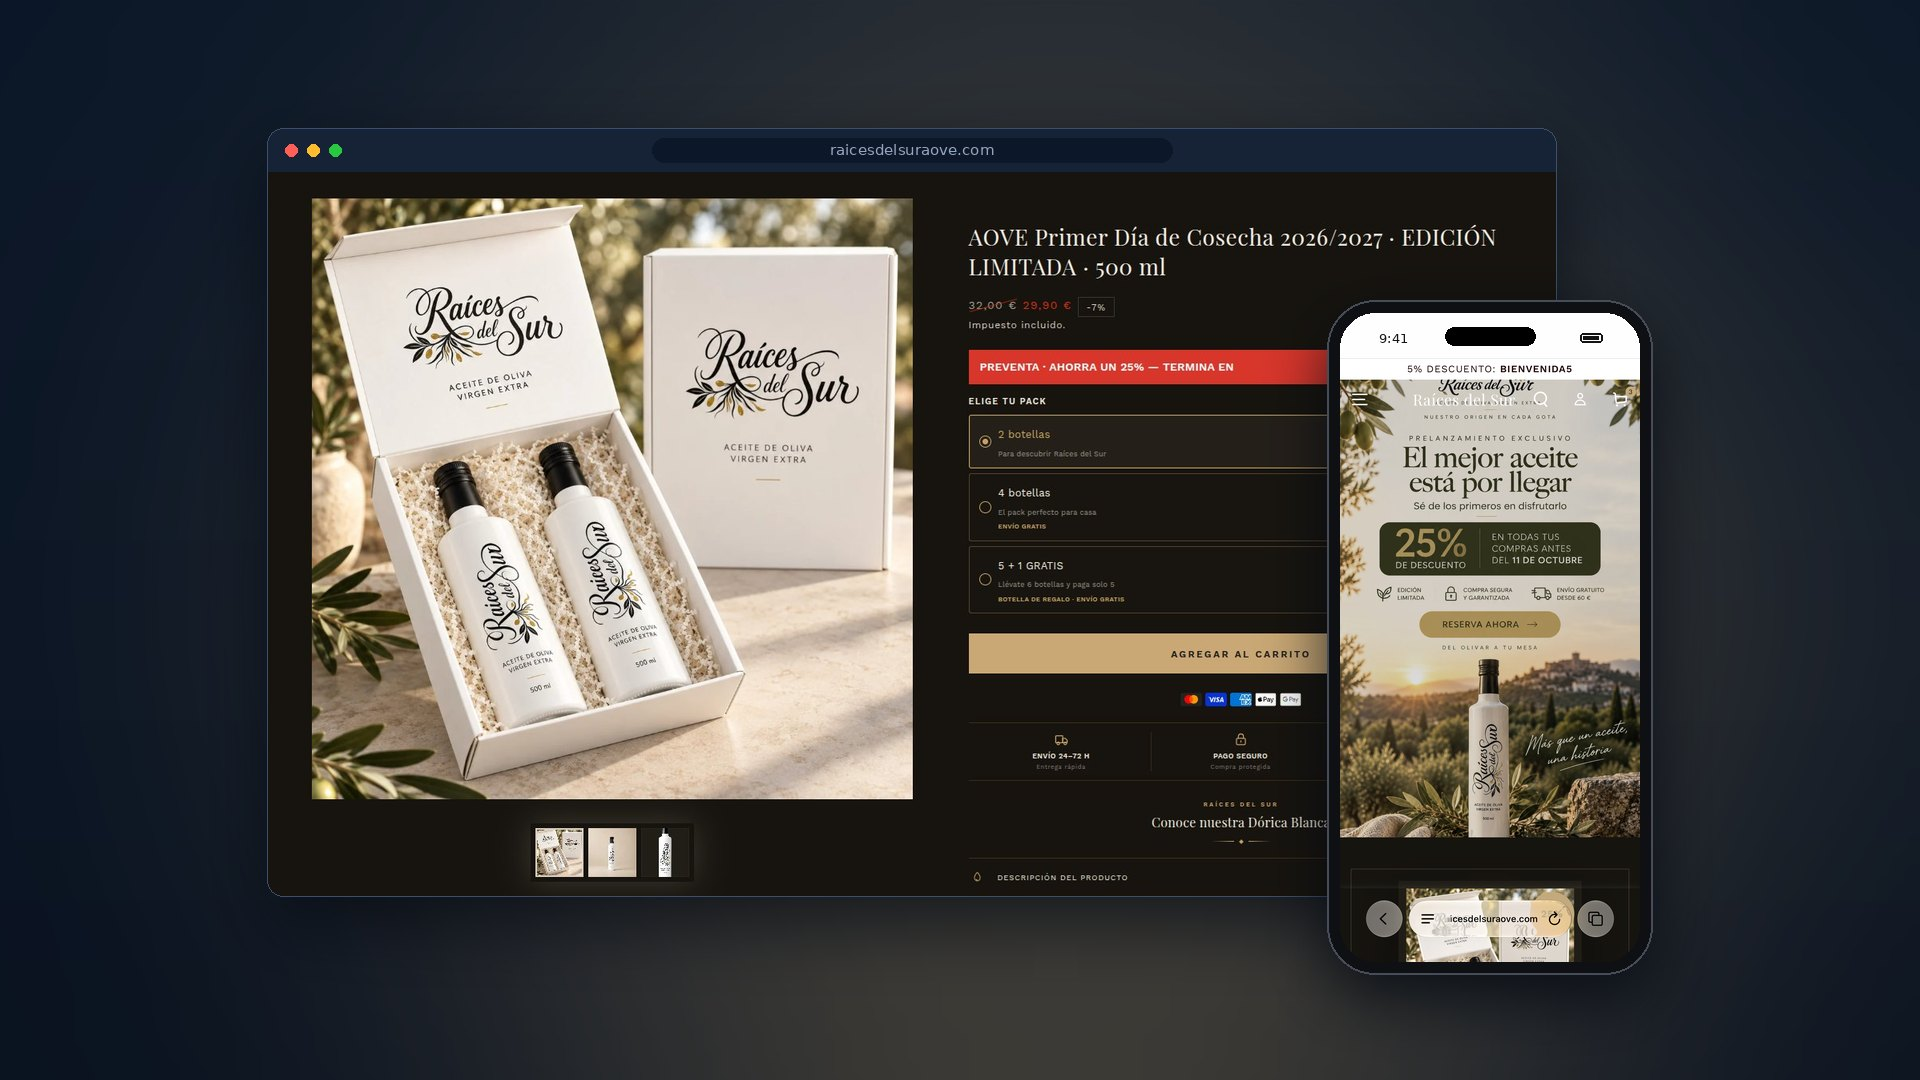
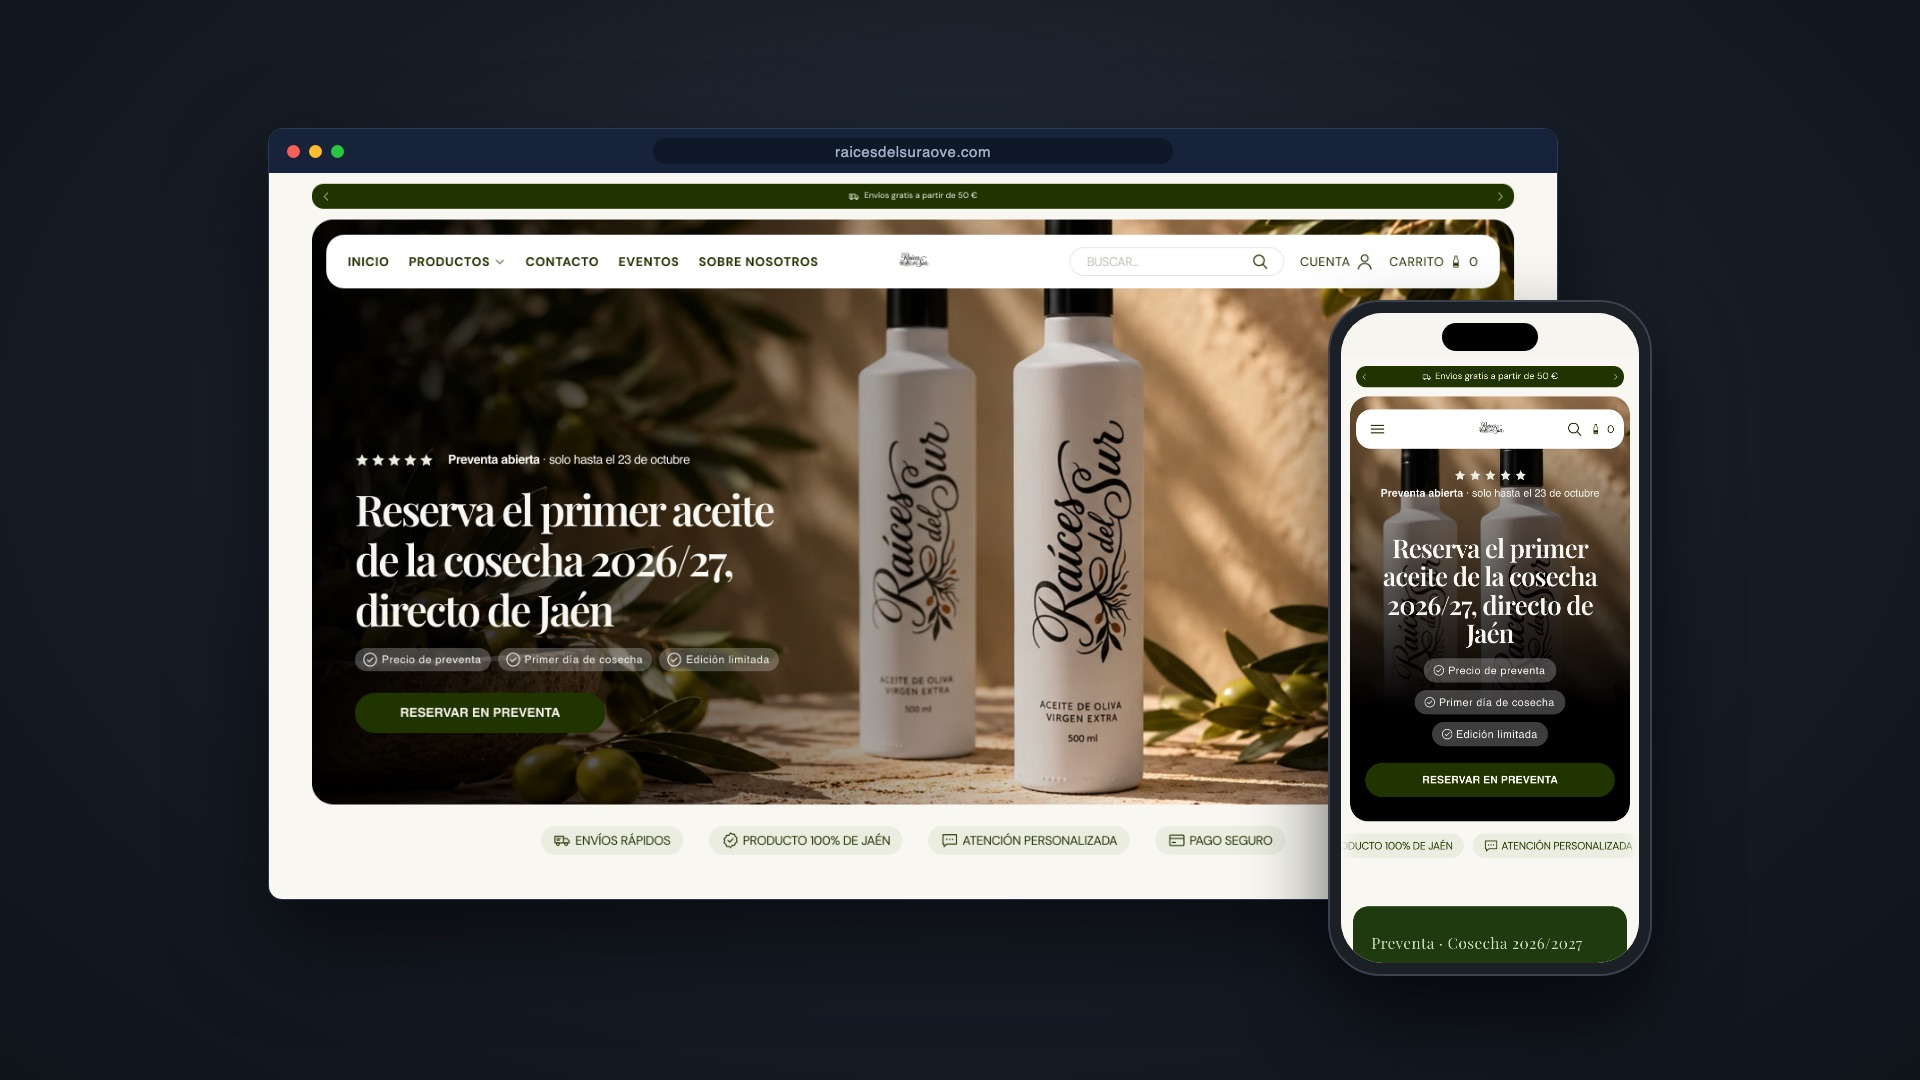
Raíces del Sur: fotos y textos de la web nueva
La tienda se ha rediseñado entera: nueva portada, tres capturas en la
galería (inicio, ficha del aceite y Crea tu pack), textos actualizados
y acento verde oliva. Es una empresa de Écija.

diff --git a/src/data/projects.ts b/src/data/projects.ts
@@ -144,7 +144,7 @@ export const projects: Project[] = [
   {
     slug: "raicesdelsur",
     title: "Raíces del Sur",
-    tagline: "Tienda de aceite de oliva virgen extra que vende por packs y arranca en preventa",
+    tagline: "Tienda de aceite de oliva con preventa, packs y una despensa que montas tú",
     category: "Shopify · Ecommerce",
     year: 2026,
     date: "Octubre 2026",
@@ -155,26 +155,30 @@ export const projects: Project[] = [
     featured: true,
     liveUrl: "https://raicesdelsuraove.com/",
     cover: "/images/project-raices.jpg",
-    gallery: ["/images/screen-raices-inicio.jpg"],
+    gallery: [
+      "/images/screen-raices-inicio.jpg",
+      "/images/screen-raices-producto.jpg",
+      "/images/screen-raices-pack.jpg",
+    ],
     stack: ["Shopify", "Liquid", "JavaScript", "CSS"],
-    goal: "Vender un aceite de edición limitada antes de que salga, con una tienda a la altura del producto.",
+    goal: "Vender un aceite de edición limitada antes de que salga, y que la tienda siga vendiendo cuando acabe la preventa.",
     context:
-      "Una persona cercana lanzaba su propia marca de aceite de oliva virgen extra: una edición limitada del primer día de cosecha, en botella de 500 ml y caja de regalo. No había tienda, y la idea era abrir en preventa y vender por packs, no botella a botella.",
+      "Una empresa de Écija lanzaba su propia marca de aceite de oliva virgen extra, con aceituna de sus olivos de Jaén: una edición limitada del primer día de cosecha, en botella de 500 ml. La primera versión de la tienda solo vendía ese aceite. Después llegaron las aceitunas aliñadas y la mermelada de aceite, y la web se quedaba corta.",
     summary: [
-      "Monté la tienda en Shopify y adapté el tema a la marca: fondo oscuro, detalles dorados y una tipografía clásica, para que un aceite de edición limitada se vea como lo que es y no como uno más del supermercado.",
-      "La clave está en cómo se vende. En la ficha del aceite eliges directamente el pack de 2, 4 o 6 botellas y ves al momento cuánto te sale cada una y cuánto te ahorras. El de seis lleva una de regalo, y ese descuento entra solo al pagar, sin códigos.",
+      "Rehíce la tienda entera. Pasó de un tema oscuro con dorados a uno claro, en crema y verde oliva, con fotos grandes del producto y del campo: más cercano y natural, que es lo que vende la marca.",
+      "La portada empuja la preventa del aceite con su cuenta atrás y sus packs. Además hay una página para montar tu propia despensa: eliges aceite, aceitunas o mermelada, ves cómo crece el descuento conforme añades cosas y el ahorro se aplica solo en el carrito.",
     ],
     highlights: [
-      "Tema de Shopify adaptado a la marca: oscuro, con detalles dorados y tipografía clásica",
-      "Selector de packs en la ficha de producto: 2, 4 o 6 botellas, con el precio por botella y lo que te ahorras",
-      "Etiquetas de «Más elegido» y «Mejor oferta» para guiar hacia los packs grandes",
-      "Pack 5+1: la sexta botella se descuenta sola al pagar, sin que el cliente meta ningún código",
-      "Textos de confianza junto al botón de compra: envío en 24–72 h, pago seguro y 30 días de devolución",
-      "Página de eventos de la marca",
+      "Rediseño completo del tema: claro, en crema y verde oliva, con fotografía de producto y de la finca",
+      "Portada de preventa con cuenta atrás hasta el cierre y los tres packs del aceite a la vista",
+      "Ficha del aceite con packs de 2, 4 o 6 botellas: precio por botella, lo que te ahorras y cuándo el envío sale gratis",
+      "Página «Crea tu pack»: 5 % de descuento con 3 productos y 10 % con 5 o más, aplicado solo en el carrito",
+      "Catálogo nuevo con aceitunas aliñadas y mermelada de AOVE, y una página con la historia de la marca y su olivar",
+      "Cesta lateral con sugerencias, reseñas de clientes, test para elegir aceituna y preguntas frecuentes",
     ],
     outcome:
-      "La tienda ya está publicada y en preventa: el aceite se puede reservar desde hoy. Sigo añadiéndole cosas antes del lanzamiento.",
-    accent: "#cfae74",
+      "La tienda nueva está publicada y en preventa hasta el 23 de octubre. Ya no depende de un solo producto: el aceite tira de la venta, y las aceitunas, la mermelada y los packs están pensados para que cada pedido lleve algo más.",
+    accent: "#9cb46a",
   },
   {
     slug: "peluquerialafamilia",
